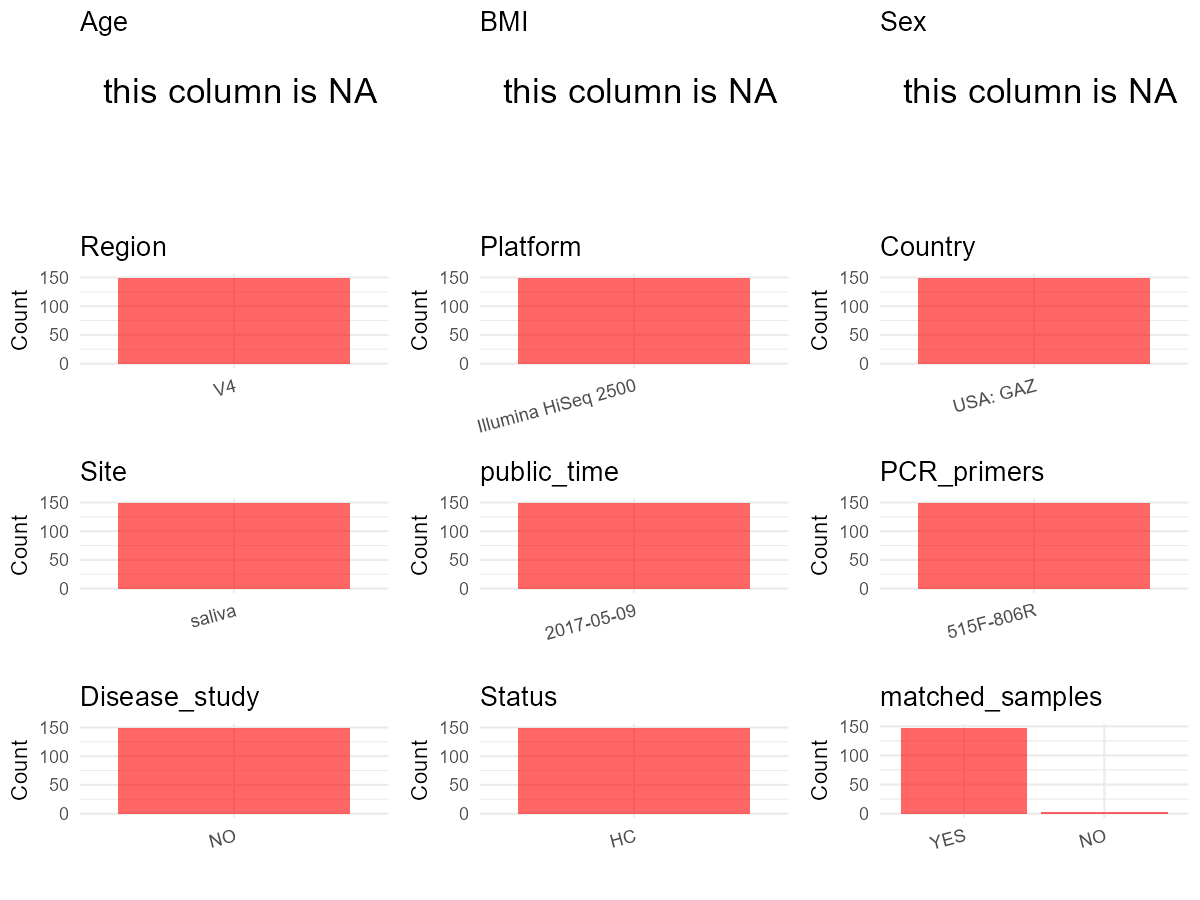
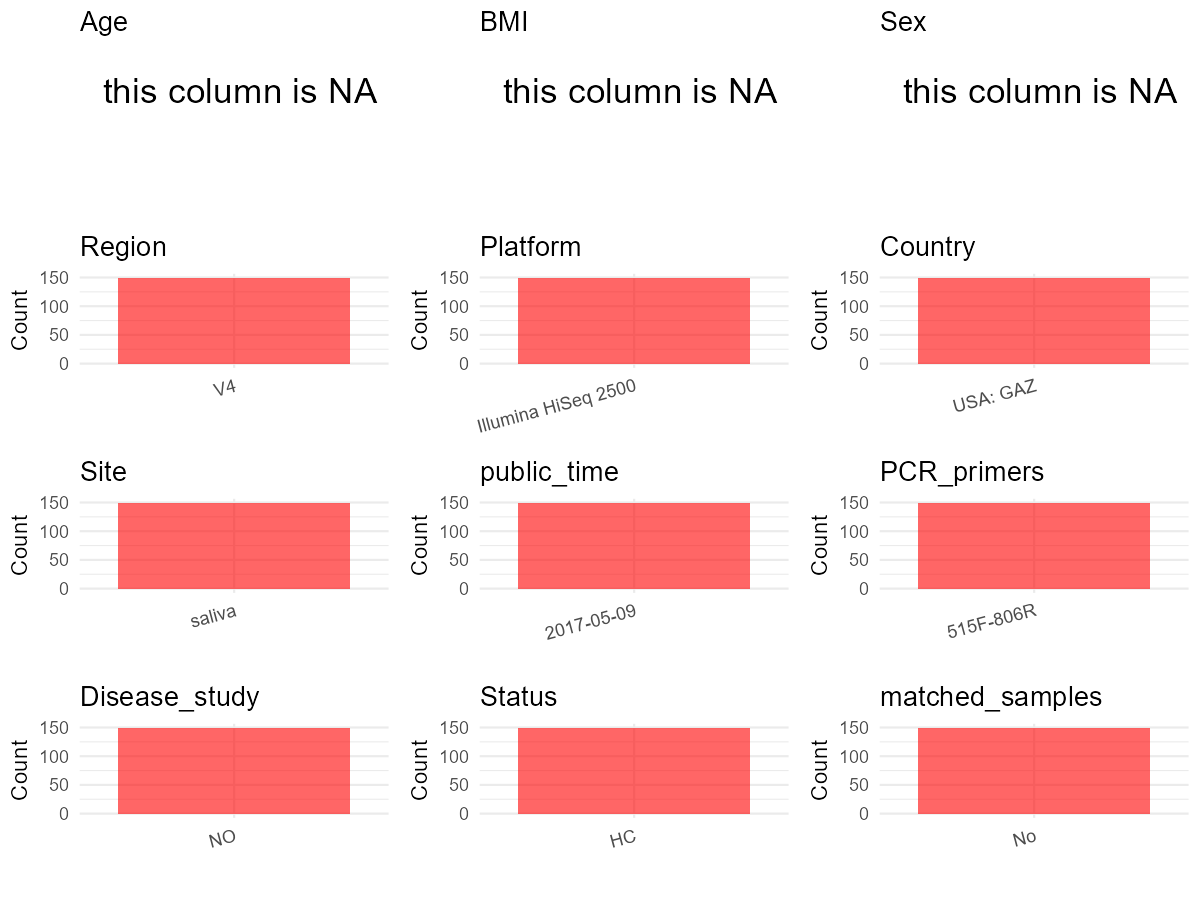
upload files for PRJEB13898

Changed region(s): [[0.8325, 0.8089, 0.9558, 0.9333], [0.74, 0.8089, 0.7708, 0.9022], [0.7708, 0.9022, 0.8017, 0.9333]]

diff --git a/data/projects/PRJEB13898/metadata_curation.md b/data/projects/PRJEB13898/metadata_curation.md
@@ -302,7 +302,7 @@ metadata<-subset(metadata,sample_name %in% keep_subjects$sample_name)
 #get subjects sampling counts
 sample_counts <- table(metadata$sample_name)
 # Create matched_samples column, any subjects have >=2 samples will be label "YES", otherwise "NO"
-metadata$matched_samples <- ifelse(metadata$sample_name %in% names(sample_counts[sample_counts >= 2]), "YES", "NO")
+metadata$matched_samples="No"
 ```
 
 # Step 4: Summarize and Validate the Metadata
@@ -365,12 +365,12 @@ head(metadata)
     ## 5 Comparison of Oral Collection Methods for Studies of Microbiota            NO
     ## 6 Comparison of Oral Collection Methods for Studies of Microbiota            NO
     ##   Status matched_samples
-    ## 1     HC             YES
-    ## 2     HC             YES
-    ## 3     HC             YES
-    ## 4     HC             YES
-    ## 5     HC             YES
-    ## 6     HC             YES
+    ## 1     HC              No
+    ## 2     HC              No
+    ## 3     HC              No
+    ## 4     HC              No
+    ## 5     HC              No
+    ## 6     HC              No
 
 ## Notes for Students:
 
